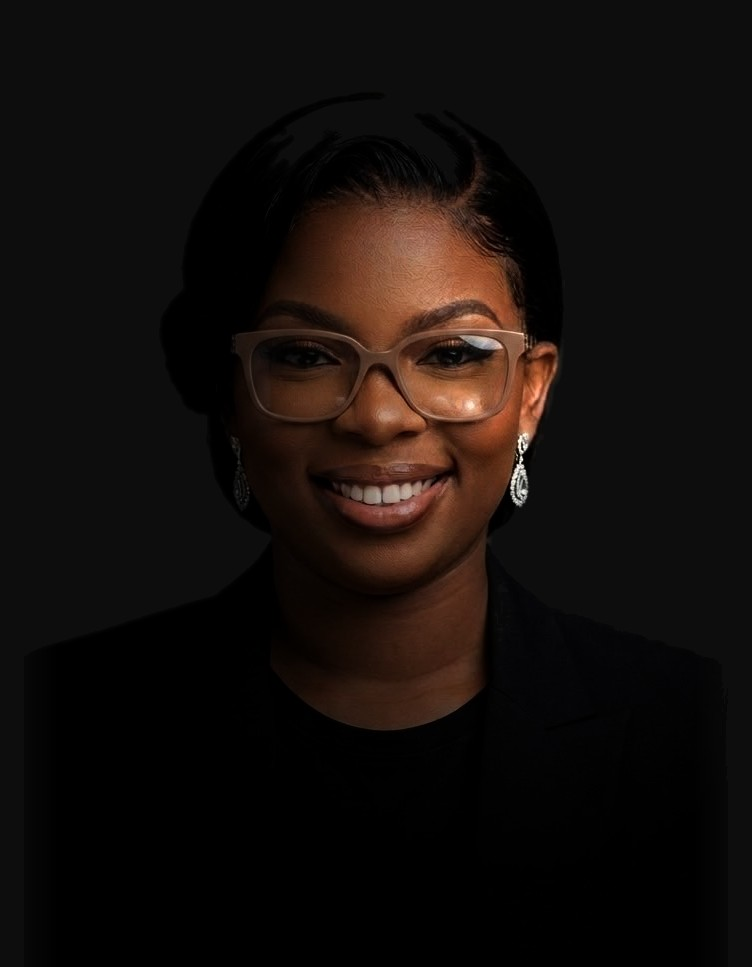
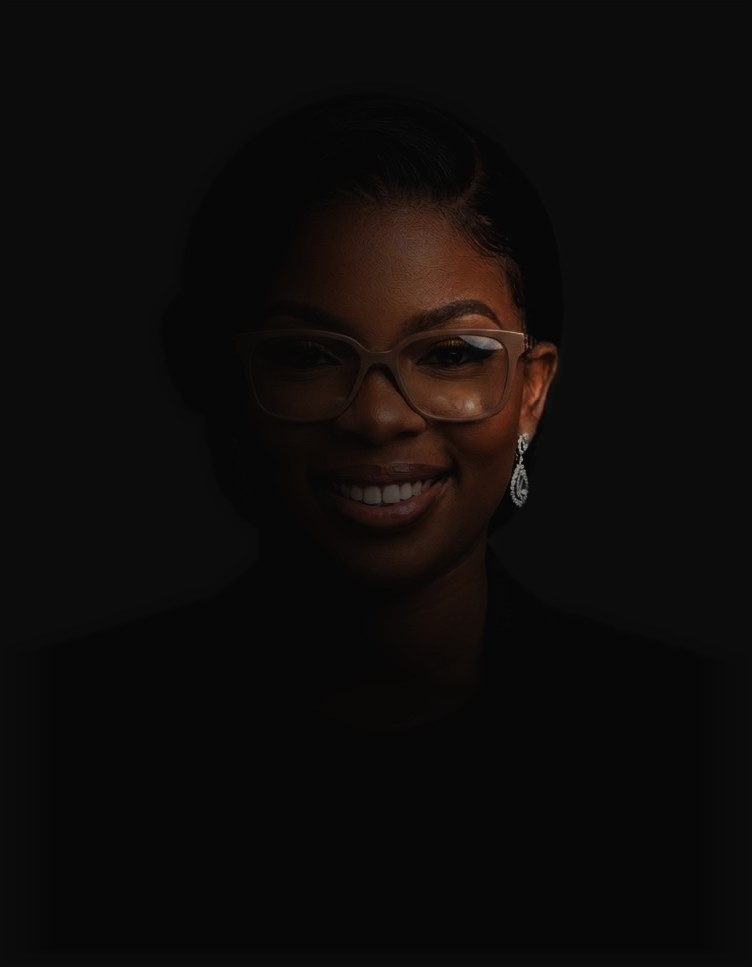
Darker low-key portrait, drop prototype note
Claude-Session: https://claude.ai/code/session_01Cv2qjhF7sYGZehr1n9zc2Z

Changed region(s): [[0.3059, 0.1861, 0.7646, 0.7756]]

diff --git a/index.html b/index.html
@@ -15,7 +15,7 @@
    COLOUR pure black ground that matches the photograph, ivory ink, graphite folders, paper white inside them
    TYPE Newsreader light for titles and notes, Inter Tight for interface text
    LAYOUT logo top left, contact top right, portrait centred, folders in a row across its lower edge; phone: portrait, then folders stacked in a row of three */
-:root{color-scheme:dark;--bg:#0d0d0d;--ink:#EDEAE4;--mute:#8B8882;--line:rgba(237,234,228,.12);--card:#0D0D0F}
+:root{color-scheme:dark;--bg:#0c0c0c;--ink:#EDEAE4;--mute:#8B8882;--line:rgba(237,234,228,.12);--card:#0D0D0F}
 *{box-sizing:border-box;min-width:0}
 html,body{background:var(--bg)}
 body{margin:0;color:var(--ink);font:400 15px/1.55 "Inter Tight",system-ui,sans-serif;-webkit-font-smoothing:antialiased;overflow-x:clip}
@@ -33,10 +33,10 @@ img{max-width:100%;display:block}
 .portrait{position:absolute;left:50%;top:0;height:min(92svh,980px);aspect-ratio:752/967;transform:translateX(-50%);-webkit-mask-image:linear-gradient(to bottom,#000 62%,transparent 96%);mask-image:linear-gradient(to bottom,#000 62%,transparent 96%)}
 .portrait img{position:absolute;inset:0;width:100%;height:100%;object-fit:cover}
 .portrait .base{filter:none}
-.portrait.glow .lit{filter:brightness(1.55) contrast(1.03)}
+.portrait.glow .lit{filter:brightness(2) contrast(1.03)}
 .portrait.glow .base{filter:brightness(1.08)}
 .portrait .base{transition:filter .6s}
-.portrait .lit{transition:filter .6s;filter:brightness(1.3) contrast(1.04);-webkit-mask-image:radial-gradient(circle var(--r,160px) at var(--x,50%) var(--y,40%),#000 35%,transparent 100%);mask-image:radial-gradient(circle var(--r,160px) at var(--x,50%) var(--y,40%),#000 35%,transparent 100%)}
+.portrait .lit{transition:filter .6s;filter:brightness(1.5) contrast(1.04);-webkit-mask-image:radial-gradient(circle var(--r,160px) at var(--x,50%) var(--y,40%),#000 35%,transparent 100%);mask-image:radial-gradient(circle var(--r,160px) at var(--x,50%) var(--y,40%),#000 35%,transparent 100%)}
 .ring{position:absolute;z-index:3;left:0;top:0;border-radius:50%;pointer-events:none;box-shadow:inset 0 0 0 1px rgba(237,234,228,.22);will-change:transform}
 .words{position:absolute;inset:0;z-index:2;pointer-events:none;-webkit-mask-image:radial-gradient(circle var(--r,160px) at var(--hx,50%) var(--hy,40%),#000 30%,transparent 78%);mask-image:radial-gradient(circle var(--r,160px) at var(--hx,50%) var(--hy,40%),#000 30%,transparent 78%)}
 .words span{position:absolute;transform:translate(-50%,-50%);width:max-content;max-width:15ch;text-align:center;font:300 clamp(13px,1.05vw,15px)/1.7 Montserrat,sans-serif;letter-spacing:.24em;text-transform:uppercase;color:#fff}
@@ -364,7 +364,7 @@ const PRINCIPLE='<div class="principle"><div class="phil"><span class="lbl">Prin
  +'<div class="xd"><div class="ow"><div class="oh"><div><b class="otitle">Get Ada to her first report</b><span class="ohint" id="xH">Click the dark button to move through each screen</span></div><div class="oseg" role="tablist" aria-label="Path"><button role="tab" id="tA" aria-selected="true">Account first</button><button role="tab" id="tB" aria-selected="false">Value first</button></div></div>'
  +'<div class="ob"><ol class="xsteps" id="xS"></ol><div class="ocv"><div class="oprog"><span id="xN">Step 1 of 7</span><span class="obar"><i id="xB"></i></span></div><div class="ocard" id="scr"></div><div class="otoast" id="xToast" hidden><span id="xTt"></span><button type="button" id="xTb"></button></div></div></div>'
  +'<div class="of"><div class="ost"><b>Time to value</b><span id="xT">0:00.0</span></div><div class="ost"><b>Clicks</b><span id="xC">0</span></div><div class="ocmp" id="xG"></div></div></div>'
- +'<div class="xfoot"><span>A made-up product, just to show the idea.</span><button type="button" id="reset">Start again</button></div></div></div>';
+ +'<div class="xfoot"><span></span><button type="button" id="reset">Start again</button></div></div></div>';
 const REPORT='<div class="xrep"><span class="lb">Your first report</span><div class="xbig">\u20A6 48.2m</div><span class="xup">Monthly sales, up 12% on last month</span><div class="xbars"><i style="height:42%"></i><i style="height:55%"></i><i style="height:48%"></i><i style="height:66%"></i><i style="height:71%"></i><i style="height:88%"></i><i style="height:80%"></i></div></div>';
 const F=(l,v)=>'<div class="xf">'+l+'<div>'+v+'</div></div>';
 const PATHS={
